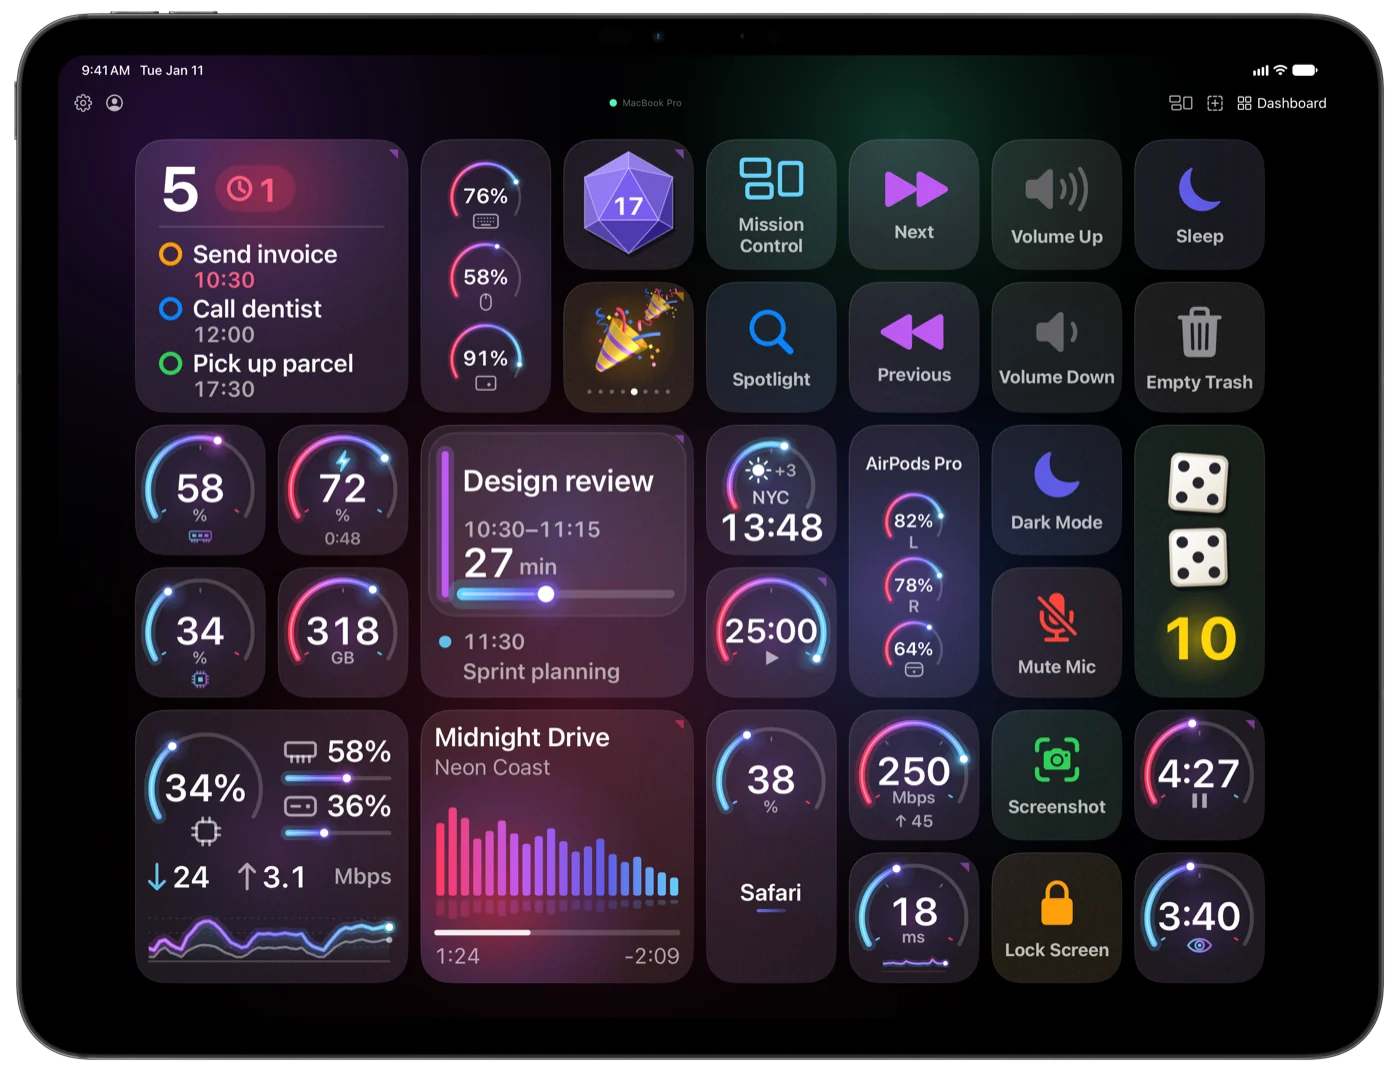
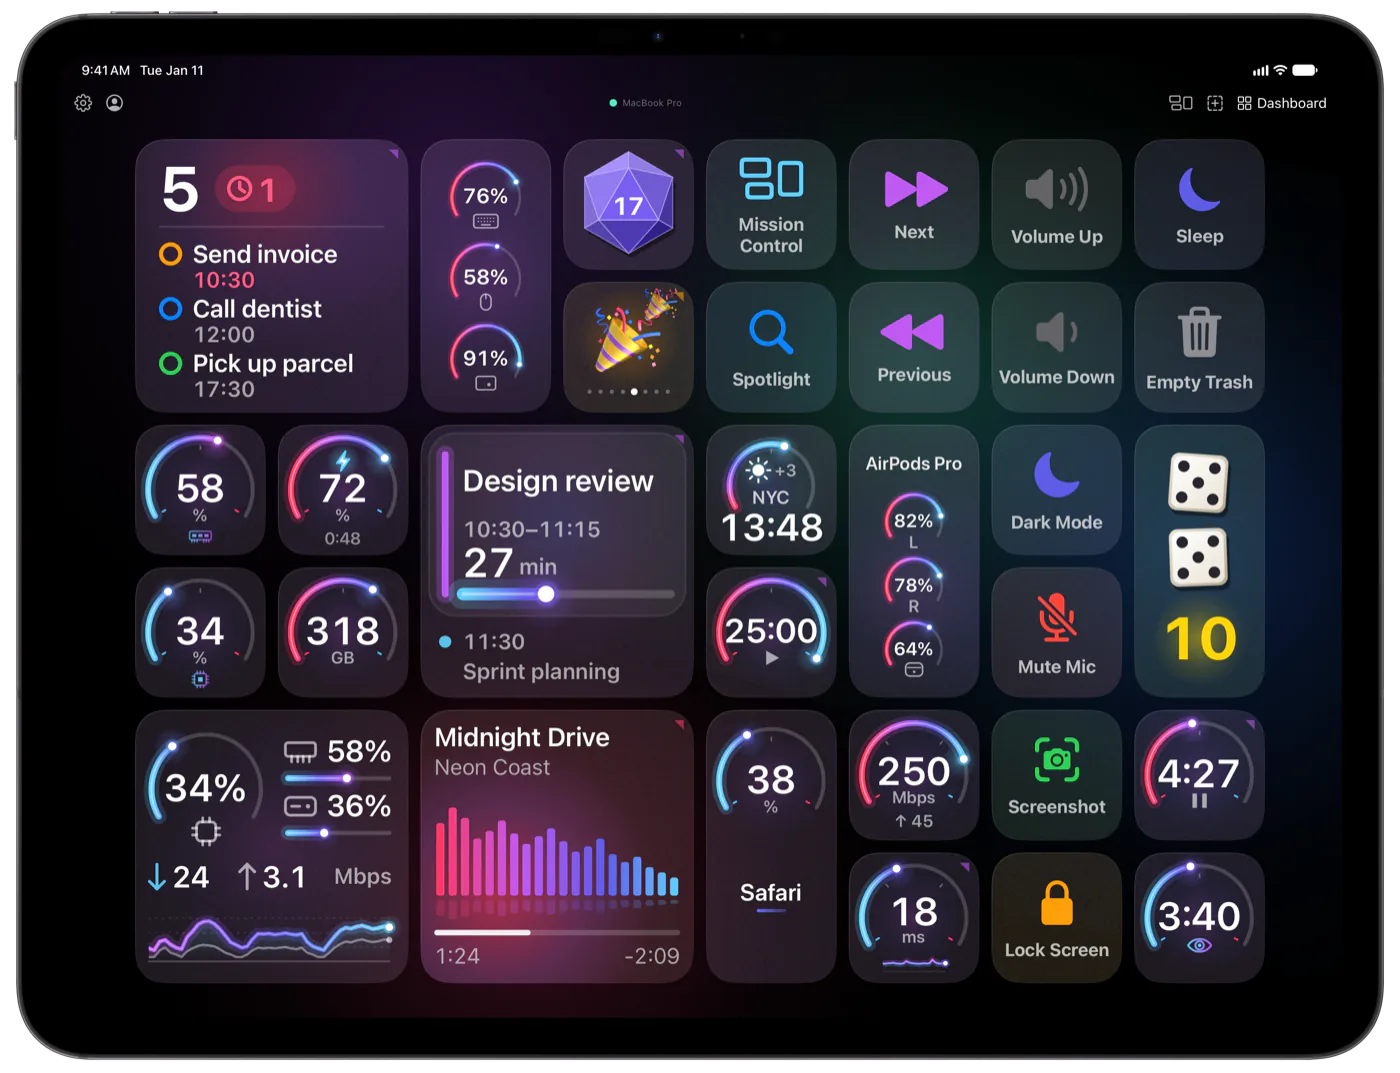
Site: MIK-289 (#32)
* Next landing: the hero's iPad and iPhone go under the text, up to 1320px wide, so the buttons' labels read; sharper renders through srcset

* Next landing: the hero's one-column grid wins at every width, so the container no longer outgrows a narrow window; DESIGN.md describes only the hero that exists

---------

diff --git a/assets/style.css b/assets/style.css
@@ -393,11 +393,29 @@ html.handheld .only-mac { display: none; }
 /* /next/: the deck on iPad and iPhone in Apple's product bezels (.hero-duo). Apple's marketing rules for its
    devices: whole, upright, unchanged (no shadow, reflection or highlight on them), no overlap, no motion but a
    fade, at least 200 px on screen — so side by side, bottom-aligned, at their real relative size (the iPhone 76%
-   of the iPad's height), a still aura behind and no hover; on a phone one under the other. */
-.hero-duo .container {
-  grid-template-columns: minmax(0, 1fr) minmax(0, 1.2fr);
-  gap: 48px;
+   of the iPad's height), a still aura behind and no hover; on a phone one under the other.
+   At every width the text is centered on top and the pair under it, wider than the container (up to 1320px,
+   24px from the window's edges, 16px ≤768px), so the buttons' labels read without zooming in. */
+.hero-duo {
+  min-height: auto;
+  padding: 120px 0 72px;
 }
+
+/* Two classes, so it beats `.hero .container` (1fr) of the ≤1024px block: a 1fr track takes the devices' fixed
+   width as its minimum and pushes the container past the window */
+.hero.hero-duo .container {
+  grid-template-columns: minmax(0, 1fr);
+  justify-items: center;
+  gap: 48px;
+  text-align: center;
+}
+
+.hero-duo .hero-content { max-width: 920px; }
+.hero-duo .hero-subtitle { max-width: 640px; margin: 0 auto 36px; }
+.hero-duo .hero-actions,
+.hero-duo .trust-line { justify-content: center; }
+
+.hero-duo .hero-visual { width: min(1320px, 100vw - 48px); }
 
 .hero-devices {
   position: relative;
@@ -3696,8 +3714,6 @@ html.docs-panel-open body { overflow: hidden; }
   .hero-content { max-width: 100%; }
   .hero-subtitle { margin: 0 auto 40px; }
   .hero-actions { justify-content: center; }
-  .hero-duo .container { grid-template-columns: minmax(0, 1fr); }
-  .hero-devices { max-width: 760px; margin: 0 auto; }
   .hero .trust-line { justify-content: center; }
   .features-header { grid-template-columns: 1fr; }
   .features-header p { justify-self: start; }
@@ -3743,6 +3759,7 @@ html.docs-panel-open body { overflow: hidden; }
   .footer-links a { white-space: nowrap; }
 
   .hero { min-height: auto; padding: 130px 0 60px; }
+  .hero-duo .hero-visual { width: calc(100vw - 32px); }
 
   .cta-actions {
     flex-direction: column;

diff --git a/next/index.html b/next/index.html
@@ -112,10 +112,10 @@
         </div>
       </div>
       <div class="hero-visual">
-        <!-- The deck as the app draws it, in Apple's own product bezels: whole, upright, side by side, at their real relative size; nothing over the devices -->
+        <!-- The deck as the app draws it, in Apple's own product bezels: whole, upright, side by side, at their real relative size; nothing over the devices. Under the text, wider than the container, so the buttons' labels read -->
         <div class="hero-devices">
-          <img class="hero-ipad" src="/assets/deck-ipad.webp" alt="A control deck on iPad: gauges for CPU, memory, disk and battery, the next meeting, a world clock, the song playing and buttons for Mac actions" width="1400" height="1073" fetchpriority="high">
-          <img class="hero-iphone" src="/assets/deck-iphone.webp" alt="The same deck on iPhone" width="540" height="1102">
+          <img class="hero-ipad" src="/assets/deck-ipad.webp" srcset="/assets/deck-ipad-1000.webp 1000w, /assets/deck-ipad.webp 1400w, /assets/deck-ipad-2000.webp 2000w" sizes="(max-width: 520px) calc(100vw - 32px), (max-width: 768px) calc(75vw - 24px), min(990px, 75vw - 36px)" alt="A control deck on iPad: gauges for CPU, memory, disk and battery, the next meeting, a world clock, the song playing and buttons for Mac actions" width="1400" height="1073" fetchpriority="high">
+          <img class="hero-iphone" src="/assets/deck-iphone.webp" srcset="/assets/deck-iphone.webp 540w, /assets/deck-iphone-800.webp 800w" sizes="(max-width: 520px) max(28.7vw - 9px, 98px), (max-width: 768px) calc(21.5vw - 7px), min(284px, 21.5vw - 10px)" alt="The same deck on iPhone" width="540" height="1102">
         </div>
       </div>
     </div>

diff --git a/DESIGN.md b/DESIGN.md
@@ -72,8 +72,8 @@ Each blob is an ellipse with a 4-stop radial gradient (0.3 → 0.15 → 0.04 →
 
 1. **Nav** — Fixed top, blurred black backdrop (`rgba(0,0,0,0.6)` + `backdrop-filter: blur(24px)`), 56px height. Logo left, links + CTA button right. Logo uses SF Pro Display 600.
 
-2. **Hero** — Full viewport height, vertically centered. Two-column grid (`.hero-duo`, the right column 1.2× the left): left column has h1 + subtitle + action buttons; right column has the picture. On mobile (≤1024px) collapses to single column, centered.
-   The picture is the deck on an iPad (landscape) and an iPhone, `assets/deck-ipad.webp` and `assets/deck-iphone.webp`: renders of the app in Apple's product bezels, transparent around the devices. Apple's rules for showing its devices apply (App Store Marketing Guidelines): whole, upright and unchanged — no shadow, reflection or highlight on them; nothing over them (no floating tags); no motion but a fade (the pair fades in, it doesn't rise like the text; no tilt on hover); at least 200 px on screen. So: side by side and bottom-aligned at their real relative size (the iPhone 76% of the iPad's height), a still accent aura behind. ≤1024px: the pair under the text, up to 760px wide. ≤520px: one under the other — the iPad full width, the iPhone at the same scale and never under 200 px tall. A new render replaces both files at the same size (iPad 1400×1073, iPhone 540×1102) and `assets/og-image.jpg` after them ("Social preview card").
+2. **Hero** (`/next/`, `.hero.hero-duo`) — One column at every width: h1 + subtitle + action buttons centered on top (the text up to 920px, the subtitle up to 640px), the picture under it. As tall as it needs to be, not the full viewport height.
+   The picture is the deck on an iPad (landscape) and an iPhone, `assets/deck-ipad.webp` and `assets/deck-iphone.webp`: renders of the app in Apple's product bezels, transparent around the devices. Apple's rules for showing its devices apply (App Store Marketing Guidelines): whole, upright and unchanged — no shadow, reflection or highlight on them; nothing over them (no floating tags); no motion but a fade (the pair fades in, it doesn't rise like the text; no tilt on hover); at least 200 px on screen. So: side by side and bottom-aligned at their real relative size (the iPhone 76% of the iPad's height), a still accent aura behind. The pair is big enough for the buttons' labels to read without zooming in: under the text, wider than the container — `min(1320px, 100vw − 48px)` (16px from the edges ≤768px), the iPad 75% of it, the iPhone 21.5%: at 1280px the iPad is about 920px wide, at 1440px 990px. ≤520px: one under the other — the iPad full width, the iPhone at the same scale and never under 200 px tall. Sharp on Retina through `srcset`: the iPad `deck-ipad-1000.webp`, `deck-ipad.webp` (1400) and `deck-ipad-2000.webp`, the iPhone `deck-iphone.webp` (540) and `deck-iphone-800.webp`; `sizes` follows the widths above — change them together. A new render (framed at 3000×2300 and 1470×3000) replaces all five at the same sizes (WebP, quality 82) and `assets/og-image.jpg` after them ("Social preview card").
 
 3. **Marquee** — Horizontal auto-scrolling ticker strip. SF Mono uppercase items in the tertiary gray, separated by small blue diamond glyphs. Bordered top and bottom, on a `rgba(0,0,0,0.4)` band that tones the background glow down behind the labels (without it the labels fall below 4.5:1 where the glow is lightest). 30s infinite linear scroll, seamless loop via duplicated items.
 
@@ -159,7 +159,7 @@ All buttons: SF Pro Text weight 500, 0.9375rem, padding 14px 28px, border-radius
 
 | Breakpoint | Changes |
 |-----------|---------|
-| ≤1024px | Hero → single column centered, the devices under the text (up to 760px). AI → single column: header, the review card (up to 300px), then the asks, the promise and Works with. Features header → single column. |
+| ≤1024px | AI → single column: header, the review card (up to 300px), then the asks, the promise and Works with. Features header → single column. |
 | ≤768px | AI: the Claude Code strip wraps its link under the text. Bento → single column (all spans become 1; the iPad card's picture goes under its text, the two page strips one under the other). Steps → stacked. Nav: section links hidden, Docs and the CTA stay (`.nav-compact` on `/next/`, `/changelog/`, `/next/press/` and `/security/`; the other pages hide all nav links). Footer stacked centered. |
 | ≤560px | AI: each answer under its ask, the review card up to 260px, the Claude Code strip stacked (button, text, link). |
 | ≤520px | Hero devices one under the other: the iPad full width, the iPhone at the same scale, never under 200px tall. |
@@ -262,7 +262,7 @@ Text on the marker line becomes the title (`> [!TIP] A faster way`). In step car
     ├── agent-download.js — The agent's download buttons: trust line from the latest release, "Send link to Mac" on a phone
     ├── js/live-widgets.js — the live buttons of the Live widgets section on /next/ (imports docs/js/face-player.js)
     ├── style.css       — Complete stylesheet (~4300 lines; docs part at "Docs")
-    ├── deck-ipad.webp, deck-iphone.webp — /next/ hero: the deck in Apple's bezels (iPad landscape 1400×1073, iPhone 540×1102)
+    ├── deck-ipad{-1000,,-2000}.webp, deck-iphone{,-800}.webp — /next/ hero: the deck in Apple's bezels (iPad landscape 1000/1400/2000 wide, iPhone 540/800 wide; srcset)
     ├── for-engineers.webp, for-designers.webp, for-power.webp — /next/ For whom: two rows of an iPhone page each (880×440)
     ├── page-figma.webp, page-xcode.webp — /next/ Features 03: an iPhone page's top bar and first row (880×293)
     ├── ipad-xcode.webp — /next/ Features 05: the iPad's screen, landscape, no bezel (1400×1050)
